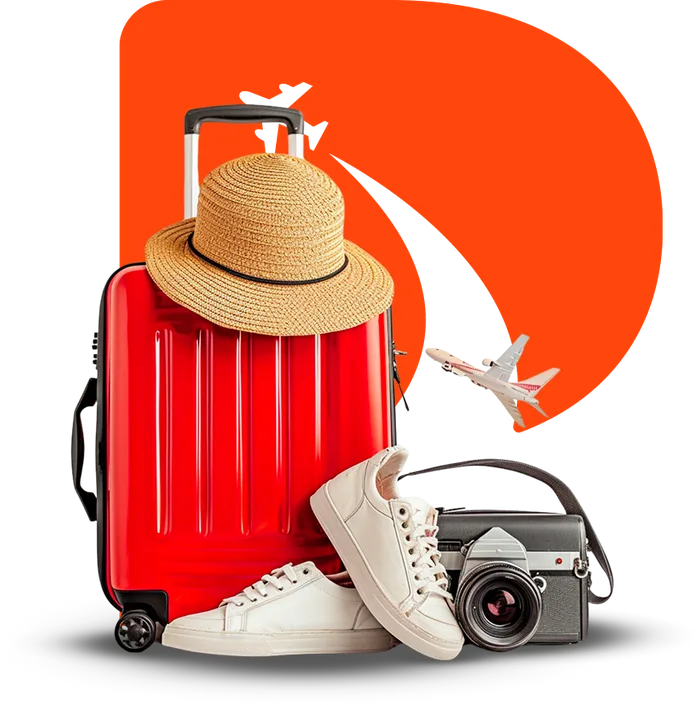
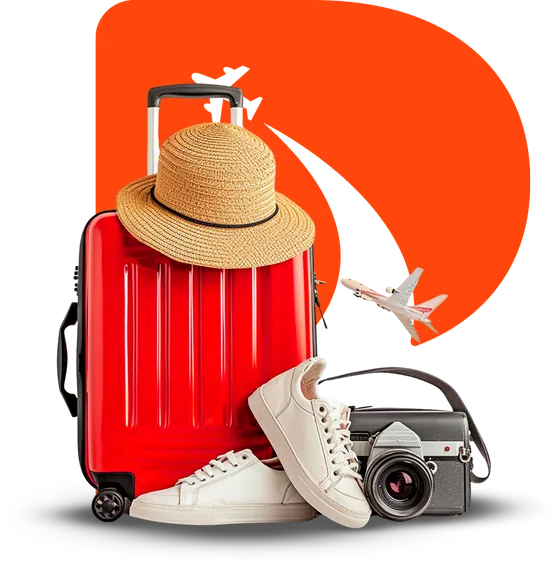
perf: reduz imagens ao tamanho de uso real (Lighthouse 82 -> 87)
srcset foi tentado e REVERTIDO: com duas fontes o browser baixava as
duas versoes de cada imagem (282KB -> 351KB). O ganho real veio de
servir uma imagem so, dimensionada para o tamanho em que ela aparece.

- banner 700w -> 560w (75KB -> 51KB)
- servicos/img1 579w -> 520w (68KB -> 51KB)
- quemSomos/img1 -> 560w (39KB -> 36KB)
- width/height do banner ajustados para as novas dimensoes

Imagens: 284KB -> 240KB. Peso total da pagina: 469KB -> 414KB.
LCP 4,4s -> 3,9s.

diff --git a/components/section/Hero.vue b/components/section/Hero.vue
@@ -20,8 +20,8 @@
           fetchpriority="high"
           loading="eager"
           decoding="async"
-          width="600"
-          height="600"
+          width="560"
+          height="564"
           class="max-w-[90%] m-auto"
         >
       </div>
